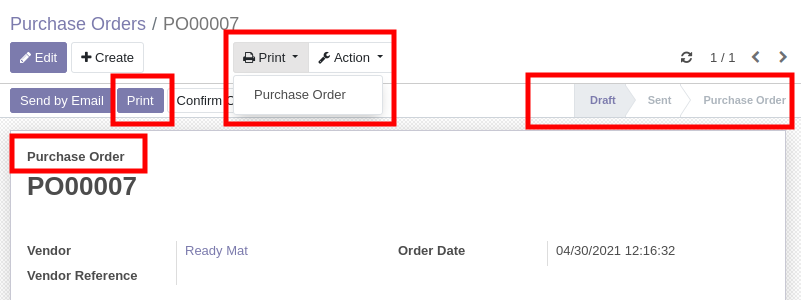
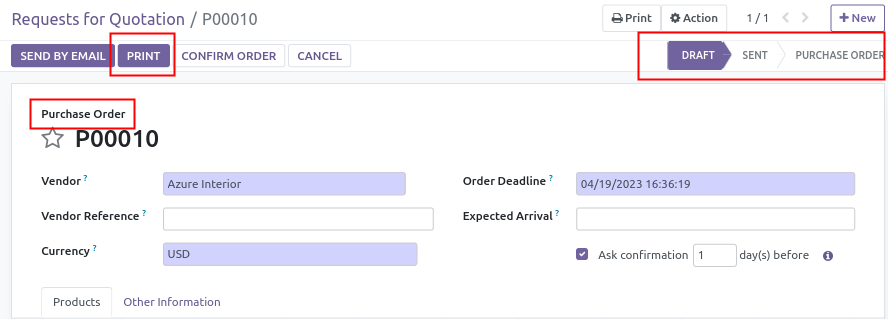
[MIG] purchase_no_rfq to v16.0 (from 12.0)

diff --git a/purchase_no_rfq/models/purchase_order.py b/purchase_no_rfq/models/purchase_order.py
@@ -3,7 +3,7 @@
 # License AGPL-3.0 or later (http://www.gnu.org/licenses/agpl.html).
 
 
-from odoo import api, fields, models
+from odoo import fields, models
 
 
 class PurchaseOrder(models.Model):
@@ -11,8 +11,8 @@ class PurchaseOrder(models.Model):
 
     state = fields.Selection(selection_add=[("draft", "Draft"), ("sent", "Sent")])
 
-    @api.multi
     def print_quotation(self):
-        self.write({"state": "sent"})
+        orders = self.filtered(lambda x: x.state == "draft")
+        orders.write({"state": "sent"})
         report = self.env.ref("purchase.action_report_purchase_order")
         return report.report_action(self)

diff --git a/purchase_no_rfq/__manifest__.py b/purchase_no_rfq/__manifest__.py
@@ -4,7 +4,7 @@
 
 {
     "name": "Purchase Order - No Request For Quotation",
-    "version": "12.0.1.0.0",
+    "version": "16.0.1.0.0",
     "author": "GRAP,Odoo Community Association (OCA)",
     "maintainers": ["legalsylvain"],
     "license": "AGPL-3",

diff --git a/purchase_no_rfq/hooks.py b/purchase_no_rfq/hooks.py
@@ -15,3 +15,5 @@ def uninstall_hook(cr, registry):
                 "sequence": 0,
             }
         )
+        # ReCreate ir.actions.report
+        env.ref("purchase.report_purchase_quotation").create_action()

diff --git a/purchase_no_rfq/README.rst b/purchase_no_rfq/README.rst
@@ -2,9 +2,12 @@
 Purchase Order - No Request For Quotation
 =========================================
 
-.. !!!!!!!!!!!!!!!!!!!!!!!!!!!!!!!!!!!!!!!!!!!!!!!!!!!!
+.. 
+   !!!!!!!!!!!!!!!!!!!!!!!!!!!!!!!!!!!!!!!!!!!!!!!!!!!!
    !! This file is generated by oca-gen-addon-readme !!
    !! changes will be overwritten.                   !!
+   !!!!!!!!!!!!!!!!!!!!!!!!!!!!!!!!!!!!!!!!!!!!!!!!!!!!
+   !! source digest: sha256:b8031938d7b0dcb20ce60294d4e917105cc657e21eb95ce2619a44b8297b873b
    !!!!!!!!!!!!!!!!!!!!!!!!!!!!!!!!!!!!!!!!!!!!!!!!!!!!
 
 .. |badge1| image:: https://img.shields.io/badge/maturity-Beta-yellow.png
@@ -14,16 +17,16 @@ Purchase Order - No Request For Quotation
     :target: http://www.gnu.org/licenses/agpl-3.0-standalone.html
     :alt: License: AGPL-3
 .. |badge3| image:: https://img.shields.io/badge/github-OCA%2Fpurchase--workflow-lightgray.png?logo=github
-    :target: https://github.com/OCA/purchase-workflow/tree/12.0/purchase_no_rfq
+    :target: https://github.com/OCA/purchase-workflow/tree/16.0/purchase_no_rfq
     :alt: OCA/purchase-workflow
 .. |badge4| image:: https://img.shields.io/badge/weblate-Translate%20me-F47D42.png
-    :target: https://translation.odoo-community.org/projects/purchase-workflow-12-0/purchase-workflow-12-0-purchase_no_rfq
+    :target: https://translation.odoo-community.org/projects/purchase-workflow-16-0/purchase-workflow-16-0-purchase_no_rfq
     :alt: Translate me on Weblate
-.. |badge5| image:: https://img.shields.io/badge/runbot-Try%20me-875A7B.png
-    :target: https://runbot.odoo-community.org/runbot/142/12.0
-    :alt: Try me on Runbot
+.. |badge5| image:: https://img.shields.io/badge/runboat-Try%20me-875A7B.png
+    :target: https://runboat.odoo-community.org/builds?repo=OCA/purchase-workflow&target_branch=16.0
+    :alt: Try me on Runboat
 
-|badge1| |badge2| |badge3| |badge4| |badge5| 
+|badge1| |badge2| |badge3| |badge4| |badge5|
 
 This module extends the odoo purchase module, to remove 'Request for Quotation' state, simplifying
 the workflow for the end users.
@@ -37,34 +40,27 @@ Once installed :
 
 * The colors in the tree view is correctly set to ``decoration-info`` for 'draft' and 'sent' orders.
 
-.. figure:: https://raw.githubusercontent.com/OCA/purchase-workflow/12.0/purchase_no_rfq/static/description/purchase_order_tree.png
+.. figure:: https://raw.githubusercontent.com/OCA/purchase-workflow/16.0/purchase_no_rfq/static/description/purchase_order_tree.png
 
 * In the form view, all the RFQ names are removed or replaced by 'Purchase Order'.
   The module makes also the 'Print' button allways available and not only on 'draft' and 'sent' status.
 
 * The option 'Print > Request For quotation' is also disabled.
 
-.. figure:: https://raw.githubusercontent.com/OCA/purchase-workflow/12.0/purchase_no_rfq/static/description/purchase_order_form.png
+.. figure:: https://raw.githubusercontent.com/OCA/purchase-workflow/16.0/purchase_no_rfq/static/description/purchase_order_form.png
 
 **Table of contents**
 
 .. contents::
    :local:
 
-Known issues / Roadmap
-======================
-
-* remove the fix of ``decoration-info`` present in the file ``views/view_purchase_order.xml``
-  once the patch available in the PR https://github.com/odoo/odoo/pull/70158
-  will be merged AND available for the current version.
-
 Bug Tracker
 ===========
 
 Bugs are tracked on `GitHub Issues <https://github.com/OCA/purchase-workflow/issues>`_.
 In case of trouble, please check there if your issue has already been reported.
-If you spotted it first, help us smashing it by providing a detailed and welcomed
-`feedback <https://github.com/OCA/purchase-workflow/issues/new?body=module:%20purchase_no_rfq%0Aversion:%2012.0%0A%0A**Steps%20to%20reproduce**%0A-%20...%0A%0A**Current%20behavior**%0A%0A**Expected%20behavior**>`_.
+If you spotted it first, help us to smash it by providing a detailed and welcomed
+`feedback <https://github.com/OCA/purchase-workflow/issues/new?body=module:%20purchase_no_rfq%0Aversion:%2016.0%0A%0A**Steps%20to%20reproduce**%0A-%20...%0A%0A**Current%20behavior**%0A%0A**Expected%20behavior**>`_.
 
 Do not contact contributors directly about support or help with technical issues.
 
@@ -102,6 +98,6 @@ Current `maintainer <https://odoo-community.org/page/maintainer-role>`__:
 
 |maintainer-legalsylvain| 
 
-This module is part of the `OCA/purchase-workflow <https://github.com/OCA/purchase-workflow/tree/12.0/purchase_no_rfq>`_ project on GitHub.
+This module is part of the `OCA/purchase-workflow <https://github.com/OCA/purchase-workflow/tree/16.0/purchase_no_rfq>`_ project on GitHub.
 
 You are welcome to contribute. To learn how please visit https://odoo-community.org/page/Contribute.
